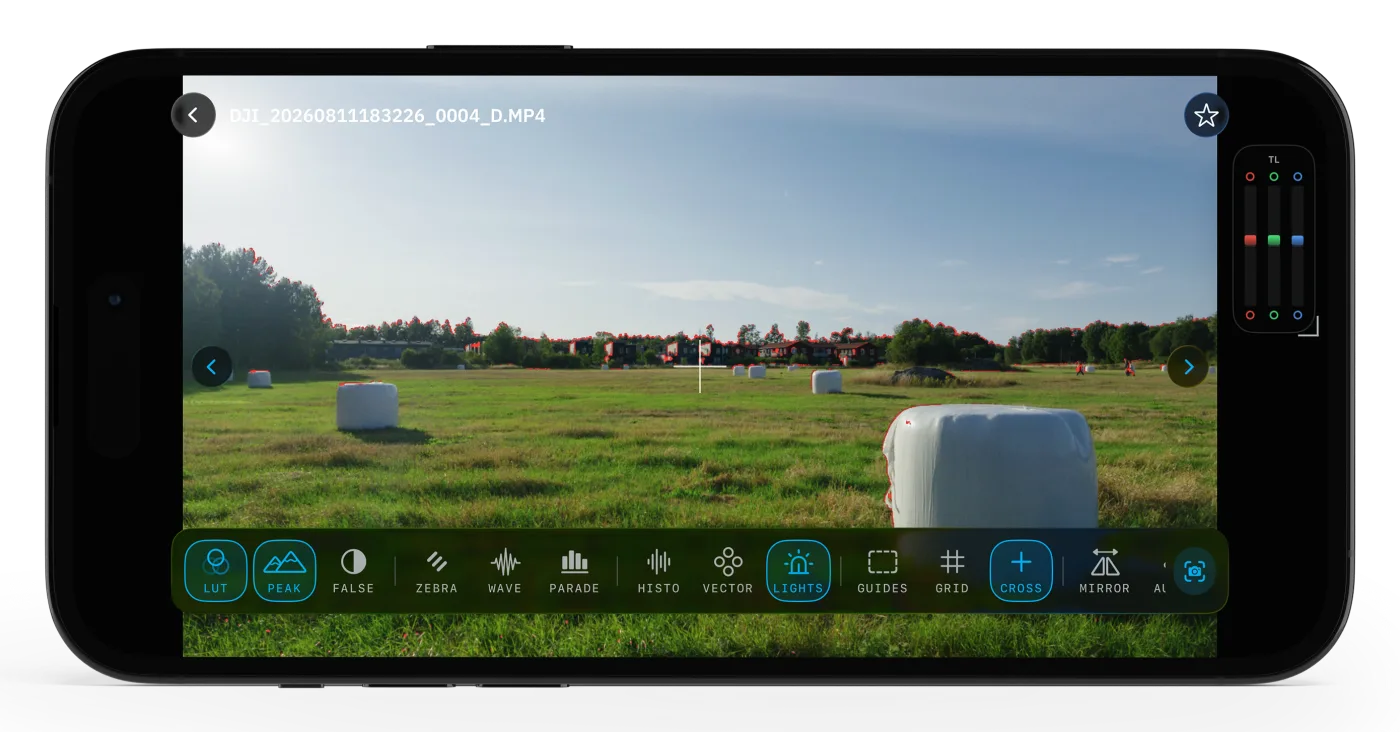
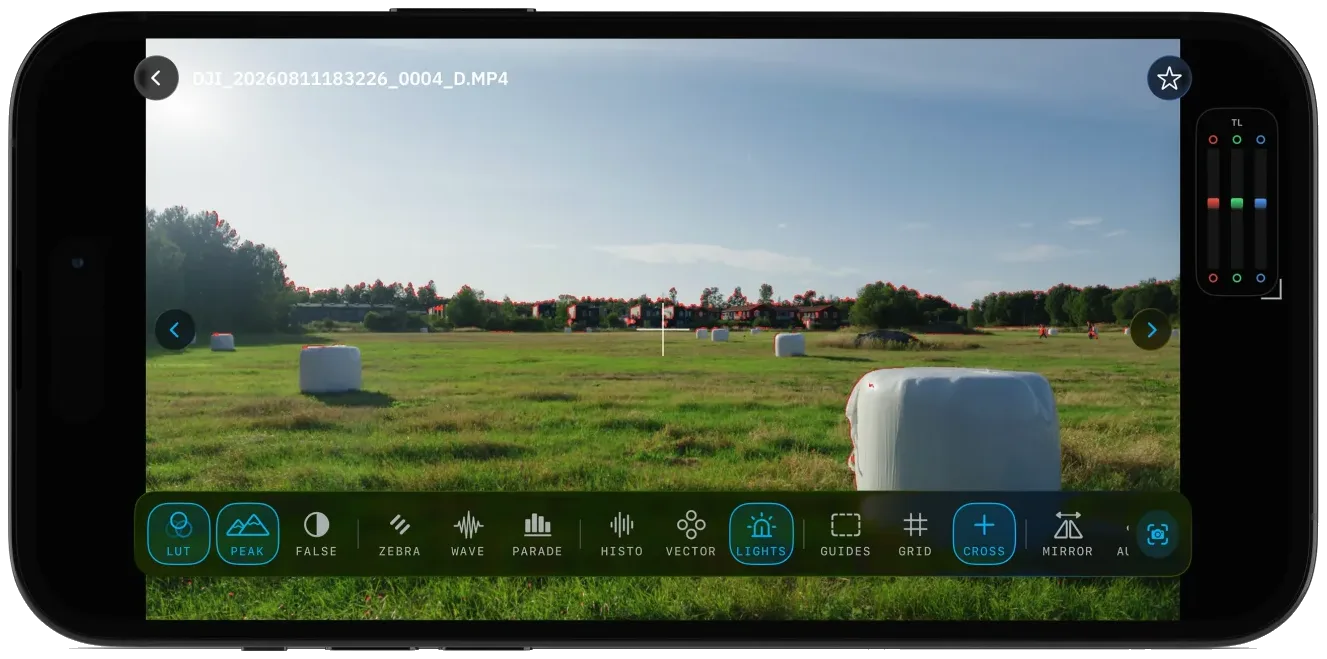
docs: knock out the gray plate under the assist iPhone
The mockup's floor slab was catching the drop-shadow. Keep the phone
silhouette so the shadow matches the other stills.

diff --git a/site/index.html b/site/index.html
@@ -187,7 +187,7 @@
               width="1400" height="933" loading="lazy" decoding="async">
             <img src="assets/screens/media-playback-assists.webp"
               alt="OpenPocketCine clip playback with the full assist rail: LUT, peaking, zebras, waveform, and Traffic Lights"
-              width="1400" height="732" loading="lazy" decoding="async">
+              width="1327" height="659" loading="lazy" decoding="async">
           </div>
         </div>
       </div>
